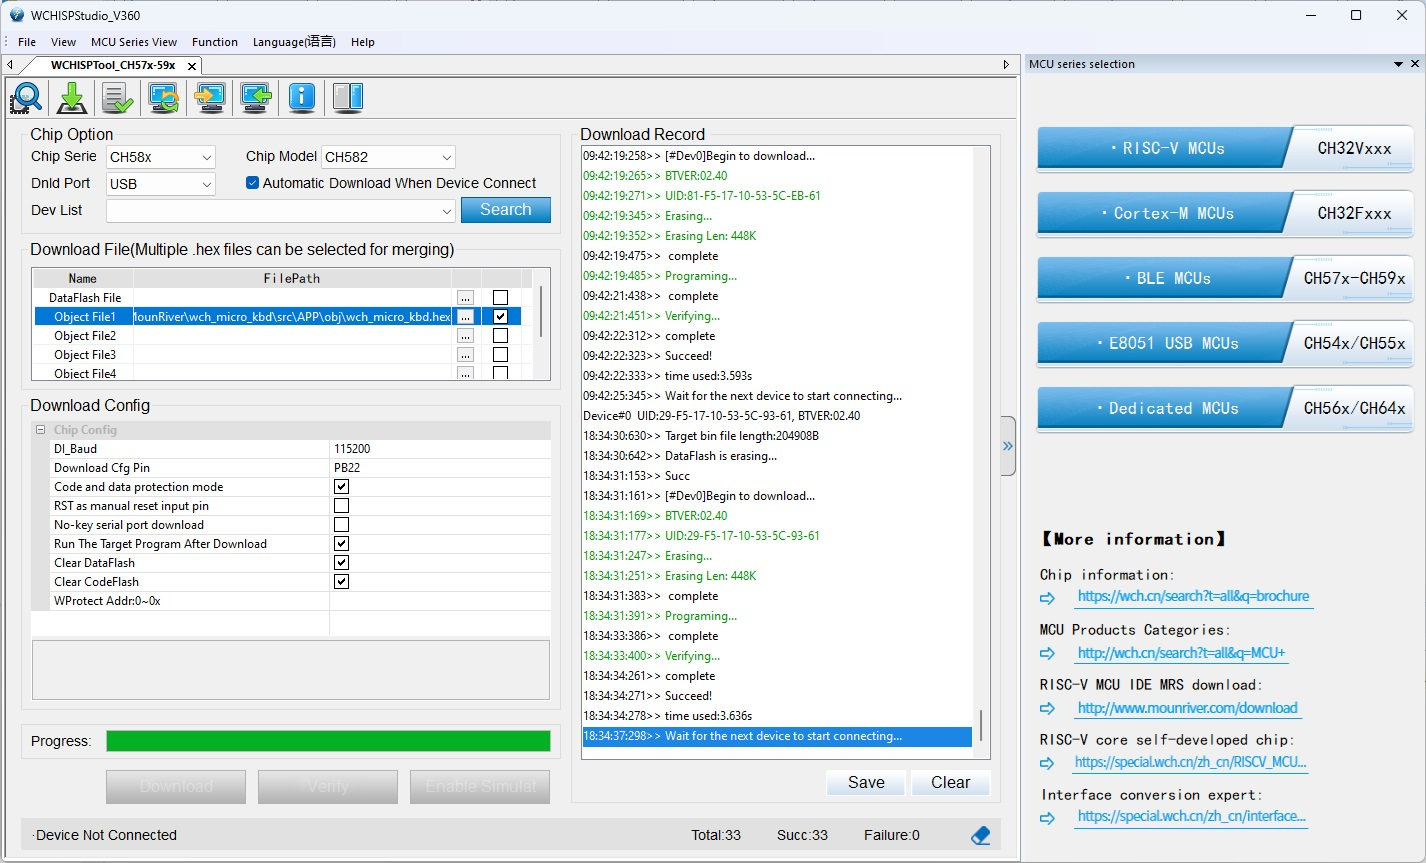
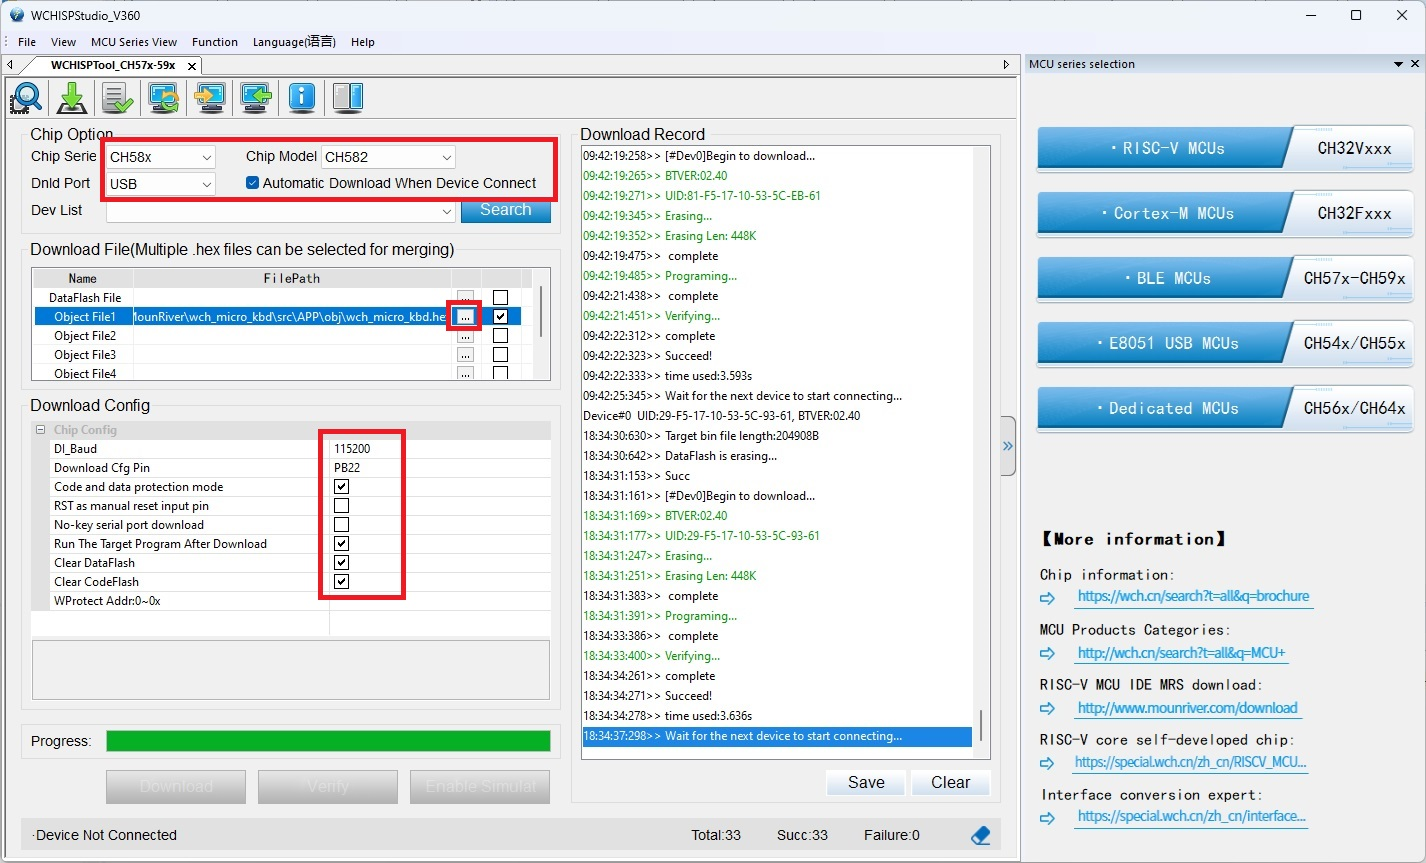
Fixed bonding issue. Fixed battery update. Removed Numlock support

Changed region(s): [[0.0617, 0.1506, 0.4011, 0.241], [0.216, 0.482, 0.3086, 0.6929], [0.3086, 0.3314, 0.3394, 0.3917]]

diff --git a/src/subsys/BLE/hidkbd.c b/src/subsys/BLE/hidkbd.c
@@ -35,7 +35,7 @@
  * CONSTANTS
  */
 // Param update delay
-#define START_PARAM_UPDATE_EVT_DELAY          3200
+#define START_PARAM_UPDATE_EVT_DELAY          12800
 
 // Param update delay
 #define START_PHY_UPDATE_DELAY                1600
@@ -44,19 +44,19 @@
 #define DEFAULT_HID_IDLE_TIMEOUT              60000
 
 // Minimum connection interval (units of 1.25ms)
-#define DEFAULT_DESIRED_MIN_CONN_INTERVAL     16//8
+#define DEFAULT_DESIRED_MIN_CONN_INTERVAL     12
 
 // Maximum connection interval (units of 1.25ms)
-#define DEFAULT_DESIRED_MAX_CONN_INTERVAL     32//15
+#define DEFAULT_DESIRED_MAX_CONN_INTERVAL     24
 
 // Low energy connection interval (units of 1.25ms)
-#define LE_DESIRED_MIN_CONN_INTERVAL            64//40
+#define LE_DESIRED_MIN_CONN_INTERVAL            40
 
 // Low energy connection interval (units of 1.25ms)
-#define LE_DESIRED_MAX_CONN_INTERVAL            128//80
+#define LE_DESIRED_MAX_CONN_INTERVAL            80
 
 // Slave latency to use if parameter update request
-#define DEFAULT_DESIRED_SLAVE_LATENCY         5
+#define DEFAULT_DESIRED_SLAVE_LATENCY         3
 
 // Supervision timeout value (units of 10ms)
 #define DEFAULT_DESIRED_CONN_TIMEOUT          300
@@ -77,7 +77,7 @@
 #define DEFAULT_IO_CAPABILITIES               GAPBOND_IO_CAP_NO_INPUT_NO_OUTPUT
 
 // Battery level is critical when it is less than this %
-#define DEFAULT_BATT_CRITICAL_LEVEL           6
+#define DEFAULT_BATT_CRITICAL_LEVEL           10
 
 /*********************************************************************
  * TYPEDEFS
@@ -218,7 +218,7 @@ bool bt_adv_data_init(void) {
         GAP_SetParamValue(TGAP_DISC_ADV_INT_MIN, advInt);
         GAP_SetParamValue(TGAP_DISC_ADV_INT_MAX, advInt);
 
-        PRINT("type = %d\n",device_bond.ID[ID_Num].remote_addr_type);
+        PRINT("remote_addr_type = %d\n",device_bond.ID[ID_Num].remote_addr_type);
 
 //         if(device_bond.ID[ID_Num].remote_addr_type == ADDRTYPE_PUBLIC) {
 
@@ -226,18 +226,22 @@ bool bt_adv_data_init(void) {
 
 
         if(device_bond.ID[ID_Num].remote_addr_type&0x30){
+            PRINT("1111111\n");
             GAPBondMgr_SetParameter( GAPBOND_AUTO_SYNC_RL, sizeof(uint8), &enable);
         }
         else{
+            PRINT("2222222\n");
             enable = DISABLE;
             GAPBondMgr_SetParameter( GAPBOND_AUTO_SYNC_RL, sizeof(uint8), &enable);
         }
 
         if(direct_count < 2)
         {
+            PRINT("3333333\n");
          bt_adv_direct(device_bond.ID[ID_Num].remote_addr_type,
                  device_bond.ID[ID_Num].remote_addr);
         }else{
+            PRINT("4444444\n");
         uint8_t adv_event_type;
         adv_event_type = GAP_ADTYPE_ADV_IND;
         GAPRole_SetParameter( GAPROLE_ADV_EVENT_TYPE, sizeof(adv_event_type),
@@ -249,6 +253,7 @@ bool bt_adv_data_init(void) {
         }
     }
     else{
+        PRINT("5555555\n");
         scanRspData[26] = '1' + ID_Num;
         attDeviceName[13] = '1' + ID_Num;
 
@@ -283,7 +288,7 @@ void bt_bond_init(void) {
     uint8 mitm = DEFAULT_MITM_MODE;
     uint8 ioCap = DEFAULT_IO_CAPABILITIES;
     uint8 bonding = DEFAULT_BONDING_MODE;
-    uint8 erase = DISABLE;
+    uint8 erase = ENABLE;
 
 
     GAPBondMgr_SetParameter( GAPBOND_PERI_DEFAULT_PASSCODE, sizeof(uint32),
@@ -412,11 +417,11 @@ uint16 HidEmu_ProcessEvent(uint8 task_id, uint16 events)
             return (events ^ START_PARAM_UPDATE_EVT);
         }
 
-//         PRINT("current interval: %#x\n", conn_params.interval_current);
-//         PRINT("min interval: %#x\n", conn_params.interval_min);
-//         PRINT("max interval: %#x\n", conn_params.interval_max);
-        if(conn_params.interval_current >= conn_params.interval_min )
-        if(conn_params.interval_current <= conn_params.interval_max){
+
+        // If the negotiated interval and timeout does not meet the desired value, re-negotiate up to 5 times.
+        if(conn_params.interval_current >= conn_params.interval_min &&
+                conn_params.interval_current <= conn_params.interval_max &&
+                conn_params.timeout <= DEFAULT_DESIRED_CONN_TIMEOUT){
             retry = 0;
 
             return (events ^ START_PARAM_UPDATE_EVT);
@@ -424,7 +429,7 @@ uint16 HidEmu_ProcessEvent(uint8 task_id, uint16 events)
 
         retry++;
         if(retry < 5){
-            tmos_start_task(hidEmuTaskId, START_PARAM_UPDATE_EVT, MS1_TO_SYSTEM_TIME(1000));
+            tmos_start_task(hidEmuTaskId, START_PARAM_UPDATE_EVT, MS1_TO_SYSTEM_TIME(2000));
         } else {
             retry = 0;
         }
@@ -432,13 +437,12 @@ uint16 HidEmu_ProcessEvent(uint8 task_id, uint16 events)
         PRINT("conn param update: %#x, %#x, %#x, %#x\n",conn_params.interval_min,
                     conn_params.interval_max,
                     conn_params.latency,
-                    conn_params.timeout);
-
+                    DEFAULT_DESIRED_CONN_TIMEOUT);
         GAPRole_PeripheralConnParamUpdateReq(hidEmuConnHandle,
             conn_params.interval_min,
             conn_params.interval_max,
             conn_params.latency,
-            conn_params.timeout, hidEmuTaskId);
+            DEFAULT_DESIRED_CONN_TIMEOUT, hidEmuTaskId);
 
         return (events ^ START_PARAM_UPDATE_EVT);
     }
@@ -658,7 +662,6 @@ static void hidEmuStateCB(gapRole_States_t newState, gapRoleEvent_t * pEvent) {
             hidEmuConnHandle = event->connectionHandle;
             tmos_start_task(hidEmuTaskId, START_PARAM_UPDATE_EVT,START_PARAM_UPDATE_EVT_DELAY);
             tmos_start_task(hidEmuTaskId,OPEN_NOTE_EVT,1600);
-            set_bluetooth_indicator(BLULETOOTH_CONNECTED_1+device_bond.ID_Num);
             PRINT("Connected..\n");
 
             tmos_memcpy(devAddr, event->devAddr, 6);
@@ -680,11 +683,11 @@ static void hidEmuStateCB(gapRole_States_t newState, gapRoleEvent_t * pEvent) {
             PRINT("Waiting for advertising..\n");
         } else if (pEvent->gap.opcode == GAP_LINK_TERMINATED_EVENT) {
             hidEmuConnHandle = GAP_CONNHANDLE_INIT;
-            PRINT("Disconnected.. Reason:%x\n", pEvent->linkTerminate.reason);
+            PRINT("Disconnected.. Reason:0x%x\n", pEvent->linkTerminate.reason);
             /* Prevent reconnection */
             if (terminate_flag) {
                 terminate_flag = false;
-
+                HidEmu_Init();
                 break;
             }
         } else if (pEvent->gap.opcode == GAP_LINK_ESTABLISHED_EVENT) {

diff --git a/src/subsys/BLE/profile/hiddev.c b/src/subsys/BLE/profile/hiddev.c
@@ -19,6 +19,7 @@
 #include "hidkbd.h"
 #include "hiddev.h"
 #include "device_config.h"
+#include "led_task/led_task.h"
 
 /*********************************************************************
  * MACROS
@@ -861,7 +862,7 @@ static void hidDevGapStateCB( gapRole_States_t newState, gapRoleEvent_t * pEvent
 static void hidDevParamUpdateCB( uint16 connHandle, uint16 connInterval,
                                  uint16 connSlaveLatency, uint16 connTimeout )
 {
-  PRINT("Update %d - Int 0x%x - Latency %d\n", connHandle, connInterval, connSlaveLatency);
+  PRINT("Update %d - Int 0x%x - Latency %d - Timeout %d\n", connHandle, connInterval, connSlaveLatency, connTimeout);
   conn_params.interval_current = connInterval;
   conn_params.latency = connSlaveLatency;
   conn_params.timeout = connTimeout;
@@ -876,11 +877,13 @@ static void hidDevParamUpdateCB( uint16 connHandle, uint16 connInterval,
  */
 static void hidDevPairStateCB( uint16 connHandle, uint8 state, uint8 status )
 {
+  PRINT("GAPBOND_PAIRING_STATE: %d, status: %d\n", state, status);
   if ( state == GAPBOND_PAIRING_STATE_COMPLETE )
   {
     if ( status == SUCCESS )
     {
       hidDevConnSecure = TRUE;
+      set_bluetooth_indicator(BLULETOOTH_CONNECTED_1+device_bond.ID_Num);
     }
 
     pairingStatus = status;
@@ -890,6 +893,7 @@ static void hidDevPairStateCB( uint16 connHandle, uint8 state, uint8 status )
     if ( status == SUCCESS )
     {
       hidDevConnSecure = TRUE;
+      set_bluetooth_indicator(BLULETOOTH_CONNECTED_1+device_bond.ID_Num);
 
 #if DEFAULT_SCAN_PARAM_NOTIFY_TEST == TRUE
       ScanParam_RefreshNotify( gapConnHandle );
@@ -937,7 +941,7 @@ static void hidDevPairStateCB( uint16 connHandle, uint8 state, uint8 status )
 
     PRINT("addr type: %#x\n", device_bond.ID[ID_Num].remote_addr_type);
     SaveDeviceInfo("device_bond");
-    LOG_DEBUG("Bond info saved!");
+    PRINT("Bond info saved!\n");
   }
 }
 

diff --git a/src/drivers/key_scan/keyscan.c b/src/drivers/key_scan/keyscan.c
@@ -15,7 +15,7 @@
 
 uint32_t last_pressed = 0;
 KEYBOARD_BOOT_STATE k_state = K_STATE_0_START;
-uint32_t KEYBOARD_REBOOT_DELAY_MS = 600;
+bool is_first_boot = true;
 
 __HIGH_CODE
 void RstAllPins(void) {
@@ -129,12 +129,13 @@ void key_loop() {
         k_state = K_STATE_1_OFF;
         break;
     case K_STATE_1_OFF:
-        if (ms_current > ms_last_state_change + KEYBOARD_REBOOT_DELAY_MS) {
+        if (ms_current > ms_last_state_change + (is_first_boot)?KEYBOARD_REBOOT_DELAY_MS_LONG:KEYBOARD_REBOOT_DELAY_MS_SHORT) {
             ms_last_state_change = ms_current;
             GPIOB_ResetBits(VCC_PIN);
 #ifdef PPK_TYPE_HANDSPRING
             // TODO(): This should be K_STATE_5_RTS_HIGH, but the hardware circuit has some issues when directly connecting RXD0, should change back to K_STATE_5_RTS_HIGH once we have 0ohm disconnect in the circuit.
-            k_state = K_STATE_6_ID_RECEIVED; // Handspring does not have DCD and RTS line, jump directly to serial ID receive.
+            k_state = K_STATE_6_ID_RECEIVED;
+            PRINT("Keyboard init complete.\n");
 #else
             k_state = K_STATE_2_ON;
 #endif
@@ -185,8 +186,7 @@ void key_loop() {
         keyboard_id_buff_len += len;
             // Checks keyboard ID
             if (ContainsKeyboardId(keyboard_id_buff, keyboard_id_buff_len)){
-                PRINT("Keyboard init complete.\n");
-                KEYBOARD_REBOOT_DELAY_MS = 100;
+                is_first_boot = false;
                 last_pressed = ms_current;
                 ms_last_state_change = ms_current;
                 k_state = K_STATE_6_ID_RECEIVED;
@@ -194,6 +194,7 @@ void key_loop() {
             }
         break;
     case K_STATE_6_ID_RECEIVED:
+        ms_last_state_change = ms_current;
         key_deal();
         break;
     }

diff --git a/src/subsys/HAL/ADC.c b/src/subsys/HAL/ADC.c
@@ -29,11 +29,20 @@ bool GetChargingState(){
 // This lookup table must have 21 entries. Each entry must be different,
 // otherwise we will have divide-by-zero error below.
 
+// 301230 battery
 const uint32_t bat_percent_lookup[] = {
         2375, 3164, 3304, 3353, 3376, 3407,
         3427, 3450, 3473, 3497, 3524, 3551,
         3584, 3617, 3652, 3693, 3729, 3767,
         3817, 3861, 3947 };
+
+/*  // 551430 battery
+ const uint32_t bat_percent_lookup[] = {
+        2566, 3254, 3345, 3383, 3432, 3475,
+        3501, 3539, 3581, 3609, 3621, 3631,
+        3652, 3682, 3714, 3748, 3785, 3824,
+        3872, 3929, 3990 };
+ */
 #define BAT_SAMPLE_WINDOW_SIZE 5
 
 uint8_t AdcToBatteryPercentage(uint32_t adc_value) {
@@ -103,7 +112,7 @@ void ADCBatterySample() {
     bool current_charging = GPIOA_ReadPortPin(GPIO_Pin_13);
     if(is_charging != current_charging){
         is_charging = current_charging;
-        PRINT("is_charging: %d\n", is_charging);
+        PRINT("Charging state: %s\n", is_charging?"true, sleep disabled":"false, sleep enabled");
         pm_start_working(PM_WORKING_TIMEOUT, PM_IDLE_TIMEOUT);
     }
 }

diff --git a/src/subsys/led_task/led_task.c b/src/subsys/led_task/led_task.c
@@ -76,8 +76,8 @@ void update_led_state(){
             if (led_capslock_on) led_green_mode = LED_CONSTANT_ON;
 
             uint8_t percentage = GetBatteryPercentage();
-            if (led_numlock_on) led_yellow_mode = LED_CONSTANT_ON;
-            else if (percentage<10) led_yellow_mode = LED_BLINK_3;
+            //if (led_numlock_on) led_yellow_mode = LED_CONSTANT_ON; else
+            if (percentage<10) led_yellow_mode = LED_BLINK_3;
             else if (percentage<15) led_yellow_mode = LED_BLINK_2;
             else if (percentage<20) led_yellow_mode = LED_BLINK_1;
 
@@ -130,6 +130,7 @@ void led_task_init(void)
     tmos_set_event(led_taskid,LED_UPDATE_EVENT);
 }
 
+// Num lock is not handled on PPK because it does not have num key area.
 void set_led_num(bool s) {
     led_numlock_on = s;
 }

diff --git a/src/drivers/key_scan/key_special.c b/src/drivers/key_scan/key_special.c
@@ -268,13 +268,14 @@ void switch_ble_channel(struct speical_data *data, uint8_t channel)
         PRINT("Channel %d current MAC: ( ", channel);
 
         for (int i = 0; i < 6; i++) {
-            PRINT("%#x ", device_bond.ID[0].local_addr[i]);
+            PRINT("%#x ", device_bond.ID[channel-1].local_addr[i]);
         }
         PRINT(")\n");
 
         device_bond.ID[channel-1].isbond = false;
         device_bond.ID_Num = channel-1;
         device_bond.ID[channel-1].local_addr[2]++;
+        SaveDeviceInfo("device_bond");
         needs_mode_change = true;
 
     } else {

diff --git a/src/subsys/button_task/button_task.c b/src/subsys/button_task/button_task.c
@@ -20,9 +20,10 @@ void handle_button_state(){
         consecutive_button_down_count = 0;
     }
     if(consecutive_button_down_count*BUTTON_READ_INTERVAL_MS>BUTTON_LONG_PRESS_MS){
-        PRINT("Pair button long press, clear pairing.");
+        PRINT("Pair button long press, clear Data Flash.\n");
         consecutive_button_down_count = 0;
-        ResetDeviceInfo("all");
+        bool success = EEPROM_ERASE(0, EEPROM_MAX_SIZE);
+        PRINT("Erase Data Flash %s.\n", (success==0)?"success":"fail");
         SYS_ResetExecute();
     }
 }

diff --git a/src/drivers/key_scan/keyscan.h b/src/drivers/key_scan/keyscan.h
@@ -16,6 +16,8 @@
 #define KEEPALIVE_TIMEOUT_MS        500000
 #define LONGKEY_TIME                1000
 #define INIT_FAILURE_TIMEOUT_MS     (3000) //3s
+#define KEYBOARD_REBOOT_DELAY_MS_LONG 600
+#define KEYBOARD_REBOOT_DELAY_MS_SHORT 100
 
 #ifdef PPK_TYPE_HANDSPRING
 #define KEYBOARD_ID0 0xF9

diff --git a/src/subsys/BLE/profile/battservice.c b/src/subsys/BLE/profile/battservice.c
@@ -315,8 +315,8 @@ bStatus_t Batt_MeasLevel( void )
 
   level = battMeasure();
 
-  // If level has gone down
-  if (level < battLevel)
+  // If level has changed
+  if (level != battLevel)
   {
     // Update level
     battLevel = level;

diff --git a/src/subsys/HAL/ADC.h b/src/subsys/HAL/ADC.h
@@ -10,7 +10,7 @@
 
 #include <stdbool.h>
 
-#define ADC_INTERVAL_MS 12000
+#define ADC_INTERVAL_MS 60000 //12000
 
 void ADCBatterySample();
 uint8_t GetBatteryPercentage();

diff --git a/doc/wch_isp_tool.md b/doc/wch_isp_tool.md
@@ -3,26 +3,23 @@
 1. Go to the WCH official website to download WCHISPTool download tool,
 (https://www.wch-ic.com/download/WCHISPTool_Setup_exe.html)
 Open it to install, the setting instructions are as follows:
-- Select “CH32Fx series” chip;
+- Select “CH58x” series and "CH582" chip;
 - Chip Optional “CH32F103”;
-- Select “Serial Port” in Download Type;
-- Select “COM3” serial port displayed in step 4 in the serial device list, if not, click search;
-- “User File” selects the firmware file (*.bin) to be burned;
-- Pay attention to enable read protection settings when downloading configuration:
-  - Check Enable read protection, after downloading the program successfully, you cannot use SWD to download the program, unless the read protection is lifted
-protect. To prevent others from reading the contents of the flash program, you can check this setting.
-  - Uncheck Enable read protection, after downloading the program successfully, you can continue to use SWD to download the program. If you are debugging a program and need to download and verify repeatedly, it is recommended not to check this setting.
-- The above settings are shown in the figure 1
-![WCHISPTool UI](/images/wch_isp_tool.jpg "WCHISPTool UI")
+- Select “USB” in Download Port;
+- Check "Automatic Download When Device Connect";
+- "Object File1" selects the firmware file (*.hex) to be burned;
+- Set the "Download Config" section as shown in Figure 1
+
+![Figure 1. WCHISPTool UI](/images/wch_isp_tool.jpg "Figure 1. WCHISPTool UI")
 
 2. Use a USB type-C cable to connect the CH582 module to the PC.
 
-3. Press and hold the boot button with a needle/paper clip, then insert the module into the keyboard (that is, turn the module on) while boot button is kept pressed, then release the boot button.
+3. Press and hold the reset button with a needle/paper clip, then insert the module into the keyboard (which will turn the module on), then release the reset button.
 
-4. The firmware should start download automatically. There should be a prompt indicating that
-the download is complete and the number of successes: 1, the download is successful, as
-shown in the figure 4.
+![Figure 2. Enter Download mode](/images/enter_download_mode.jpg "Figure 2. Enter Download mode")
 
-5. After the program is downloaded, the new firmware should start running automatically. If it didn't , power off then on the module again.
+4. The firmware should start download automatically. There should be a prompt indicating that the download is Succeed, as shown in Figure 2.
 
-6. After the firmware download, the paired Bluetooth host information will be lost on the module, you need to "forget the device" on the Bluetooth host side, and pair again.
+5. After the firmware download, the new firmware should start running automatically. If it didn't , power off then on the module again.
+
+6. After the firmware download, the paired Bluetooth host information will be lost on the module. You need to "forget the device" on all the Bluetooth hosts it has paired with, and pair again.
